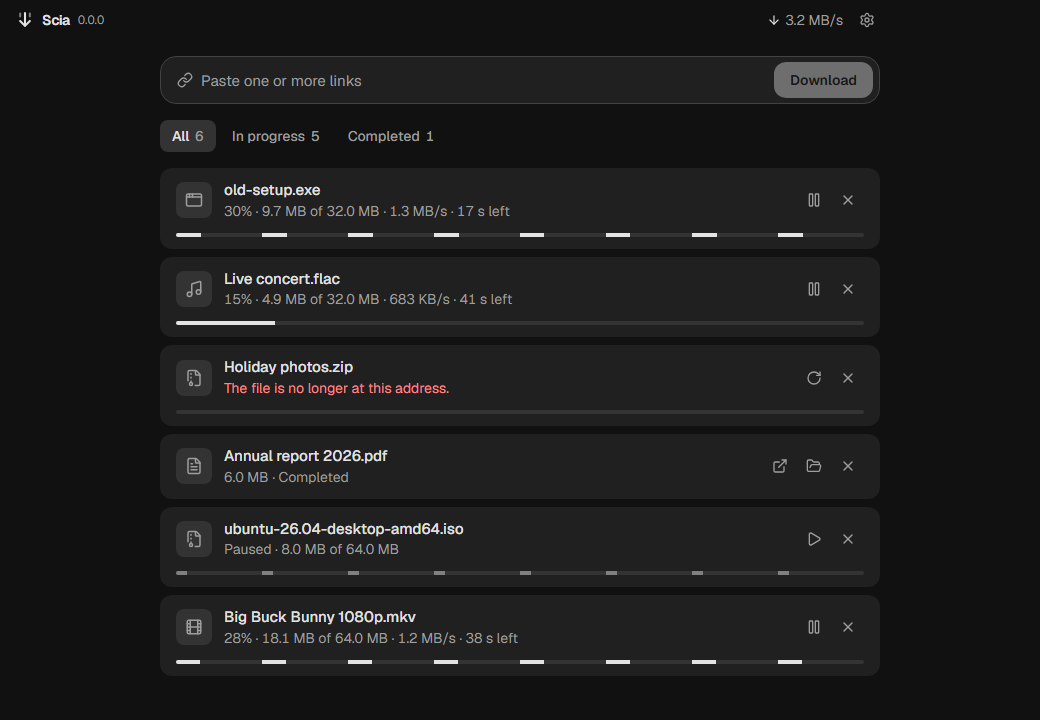
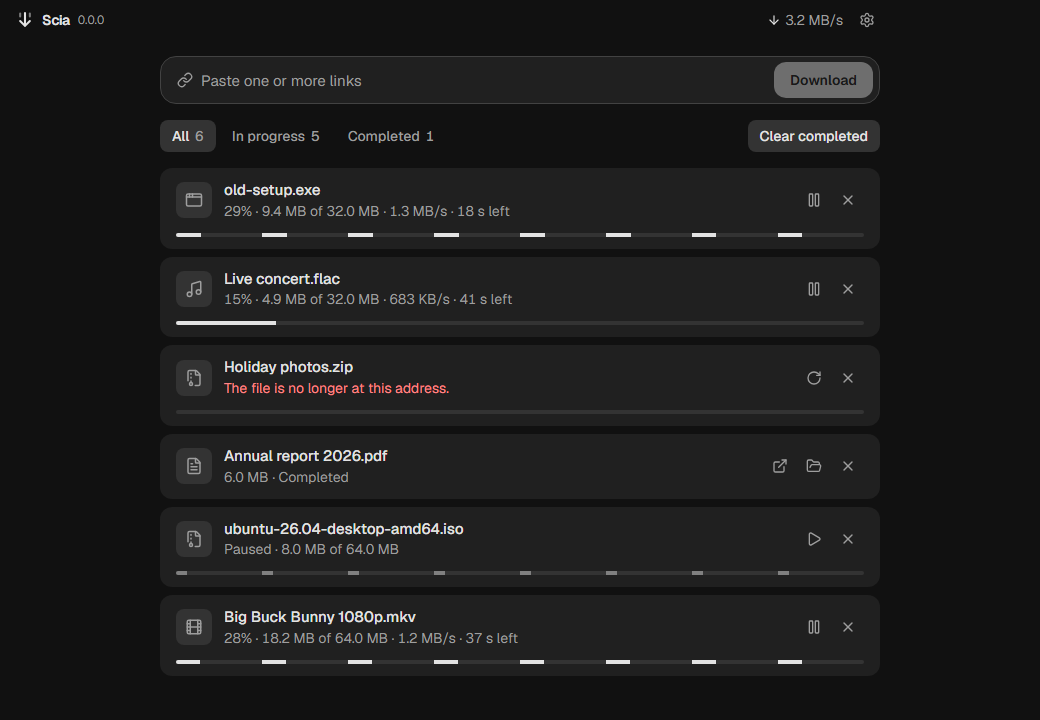
docs(design): retake the captures ci takes that show a completed download
From CI's E2E run on d2ee2e2 (run 45283629598): downloads-paused.png,
via-a-service.png and a-failure-in-full.png, with "Clear completed"
beside the filters. The captures taken by hand go to #156.

Refs #215

Changed region(s): [[0.7077, 0.1528, 0.8615, 0.2139], [0.4308, 0.275, 0.4615, 0.3056], [0.2154, 0.275, 0.2462, 0.3056]]

diff --git a/docs/product/evidence.md b/docs/product/evidence.md
@@ -217,7 +217,7 @@ The first writes' 61 ms include `fsutil` and the look at the room. `fsutil spars
 
 #215. With 169 completed downloads, the owner had one × per row to take them off the list (22 November 2026). "Clear completed" is beside the filters while any download is completed, whatever the filter, after "Start all" when both are there. It asks once more in place — "Clear 169 completed", also for one (the team's: the issue left one press or two to the product designer, and rows a press takes away together are not brought back) — and its second press takes every completed download off the list in one request, `POST /downloads/clear-completed` (the app's token only, `204`), one change and one save of `state.json` however many rows go. The files stay on the disk, as a row's own × leaves a finished file; nothing running, waiting, paused, failed or ready changes. Leaving under the focus, it hands the focus to the filter in use.
 
-**Written, covered by specs** — in the engine, beside a failed and a paused download, two finished ones leave in one change and one save, their files byte for byte where they were and the paused one's part file kept; with none finished, nothing changes and nothing is saved; the route answers the app's token alone (401 with none, 403 for the extension's), `204` with no body. In the page: the button only while a download is completed, under every filter; the count in its question; a double click that asks and does not answer itself; a refusal said as a notice; the focus handed to the filter in use when the button leaves under it, and not moved when it did not hold it — a press that does not take the focus, and the last completed row removed by its own ×. **Written for CI's E2E suite on the built app** (`download.e2e.test.ts`): two finished files and a paused one, the button reached by the keyboard, its question, then the two rows gone, the paused one left, both files byte for byte on the disk, and the focus on "All".
+**Written, covered by specs** — in the engine, beside a failed and a paused download, two finished ones leave in one change and one save, their files byte for byte where they were and the paused one's part file kept; with none finished, nothing changes and nothing is saved; the route answers the app's token alone (401 with none, 403 for the extension's), `204` with no body. In the page: the button only while a download is completed, under every filter; the count in its question; a double click that asks and does not answer itself; a refusal said as a notice; the focus handed to the filter in use when the button leaves under it, and not moved when it did not hold it — a press that does not take the focus, and the last completed row removed by its own ×. **Run in the built app by CI's E2E suite** (`download.e2e.test.ts`; passing on #302's head `d2ee2e2`, run 45283629598): two finished files and a paused one, the button reached by the keyboard, its question, then the two rows gone, the paused one left, both files byte for byte on the disk, and the focus on "All". The button beside the filters is in the captures that suite took of that head (`docs/design/downloads-paused.png`, `via-a-service.png`, `a-failure-in-full.png`), read before they were committed.
 
 **Not seen**: a hand on it in the app; a list of 169 rows cleared at once (the specs and the suite clear two); "Clear failed", which the issue leaves for later (not built); a group of #214 whose files are all completed leaving as one (#214 is not built).
 

diff --git a/docs/design/README.md b/docs/design/README.md
@@ -61,6 +61,8 @@ Since #150 the field says "Paste links or magnets" while AllDebrid is connected.
 
 From #88 the logo in the title bar and in the empty list draws the mark as the app's icon does. The eighteen captures CI's E2E suite takes were retaken with it, from its run on this change, and read before they were committed (`the-account-magnets*.png` show the empty list's logo too): `downloads-paused.png`, `a-notice-over-settings.png`, `a-notice-over-settings-light.png`, `a-notice-over-settings-720.png`, `settings.png`, `settings-light.png`, `two-ways-to-connect.png`, `connect-a-service.png`, `connect-with-a-code.png`, `connect-with-a-code-light.png`, `a-magnet.png`, `a-magnet-light.png`, `via-a-service.png`, `a-failure-in-full.png`, `the-account-magnets.png`, `the-account-magnets-light.png`, `the-account-magnets-narrow.png`, `the-account-magnets-narrow-light.png`. The others above show its earlier drawing and are retaken in #156, in the owner's sitting on the release candidate (the owner, 23 November 2026, on #156).
 
+From #215 "Clear completed" stands beside the filters while any download is completed. The three captures CI's E2E suite takes that show a completed download were retaken with it, from its run on #302's head `d2ee2e2` (run 45283629598), and read before they were committed: `downloads-paused.png`, `via-a-service.png` and `a-failure-in-full.png`; the others it takes show none. The captures taken by hand that show one — `downloads-in-progress.png` and its light twin, `themes/`, `window/`, `run-a-program.png`, `a-notice.png` and `engine-unreachable.png` with their light twins — show the row of filters without it, and are retaken in #156.
+
 From #133 the title bar names the version beside "Scia" (or offers an update there); the captures above taken before it show the title bar without it, and are retaken in #156.
 
 `update-while-downloading.png` and its light twin show the note's words before #159 and #257 ("Scia is downloading. … installs when you quit Scia."); it now says "<version> installs when you quit Scia. Pause your downloads to restart now." The E2E suite cannot offer an update, so both are retaken, with the note's first look in a packaged build, in the owner's sitting on the release candidate of `v1.0.0` (the owner, 23 November 2026), carried by #156.

diff --git a/docs/product/roadmap.md b/docs/product/roadmap.md
@@ -95,7 +95,7 @@ None open: all were settled on 21 and 23 November 2026 ([decisions.md](./decisio
 | [A save of `state.json` while another process holds it](./evidence.md#a-save-of-statejson-while-another-process-holds-it) | #151             | yes   | Specs (integration, on Windows)      | the real app with `state.json` held                                         | yes       |
 | [Zero-filling on NTFS: measured, and a part file made sparse](./evidence.md#zero-filling-on-ntfs)                         | #182, #265       | yes   | E2E, Script (the engine's task)      | a large file in the app; a USB disk with the fix (#265)                     | yes       |
 | [A way to support Scia](./evidence.md#a-way-to-support-scia)                                                              | #271             | yes   | E2E                                  | the page opened from the app by a hand                                      | yes       |
-| [Clearing completed downloads](./evidence.md#clearing-completed-downloads)                                                | #215             | yes   | Specs, E2E in CI only                | a hand in the app; 169 rows at once                                         | yes       |
+| [Clearing completed downloads](./evidence.md#clearing-completed-downloads)                                                | #215             | yes   | E2E                                  | a hand in the app; 169 rows at once                                         | yes       |
 
 ## M2 — The whole extension
 
